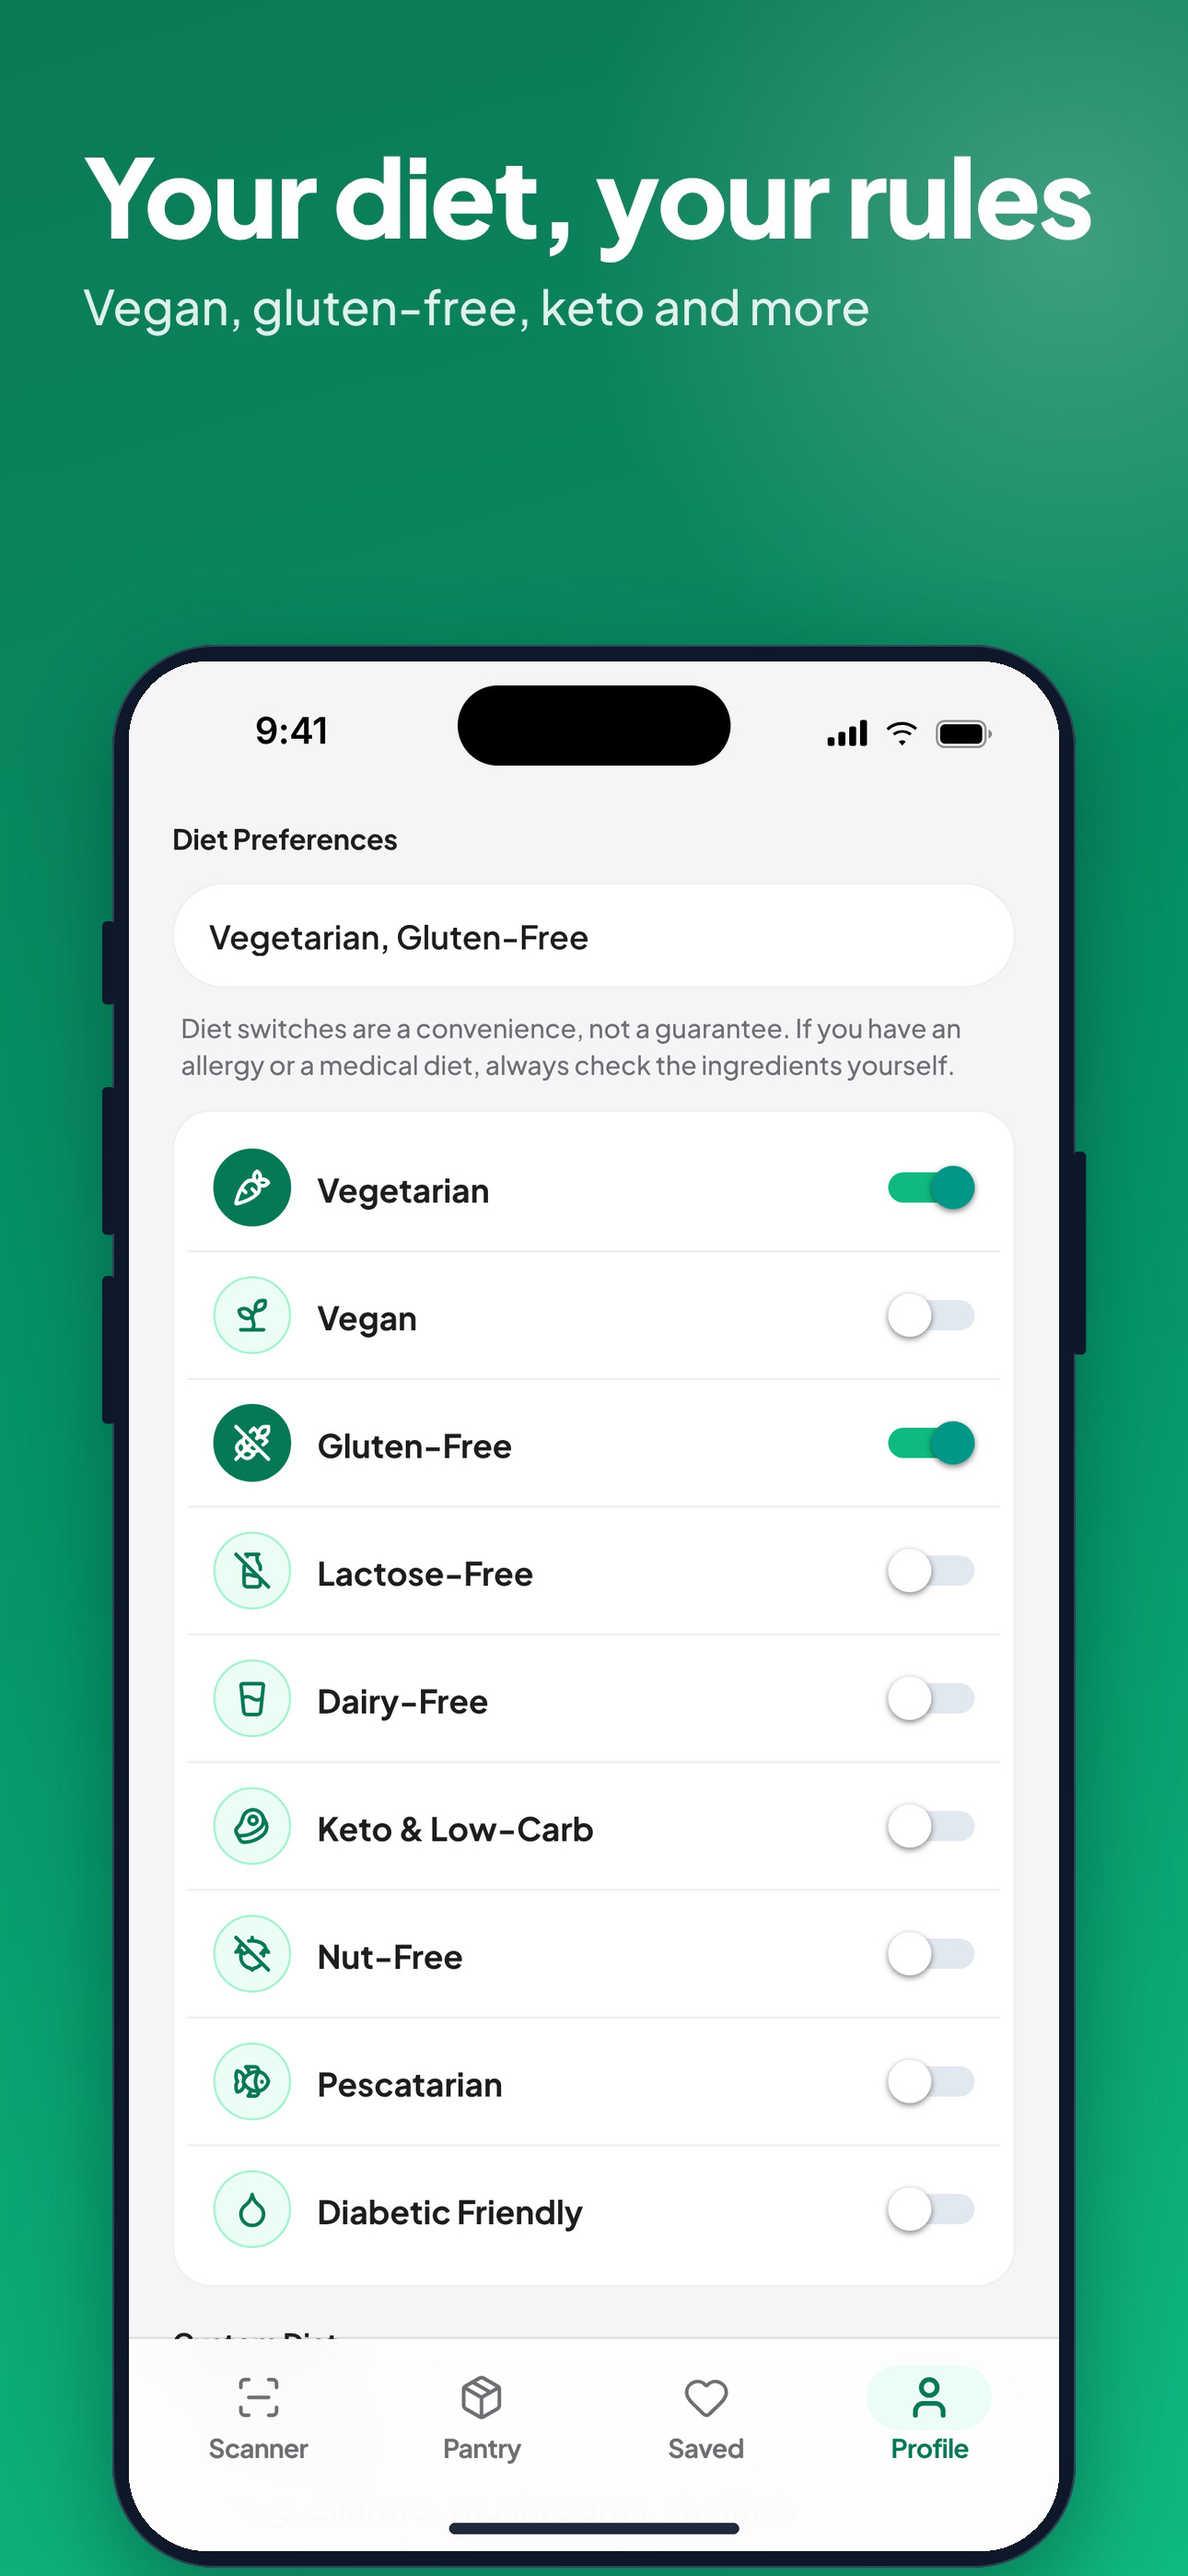
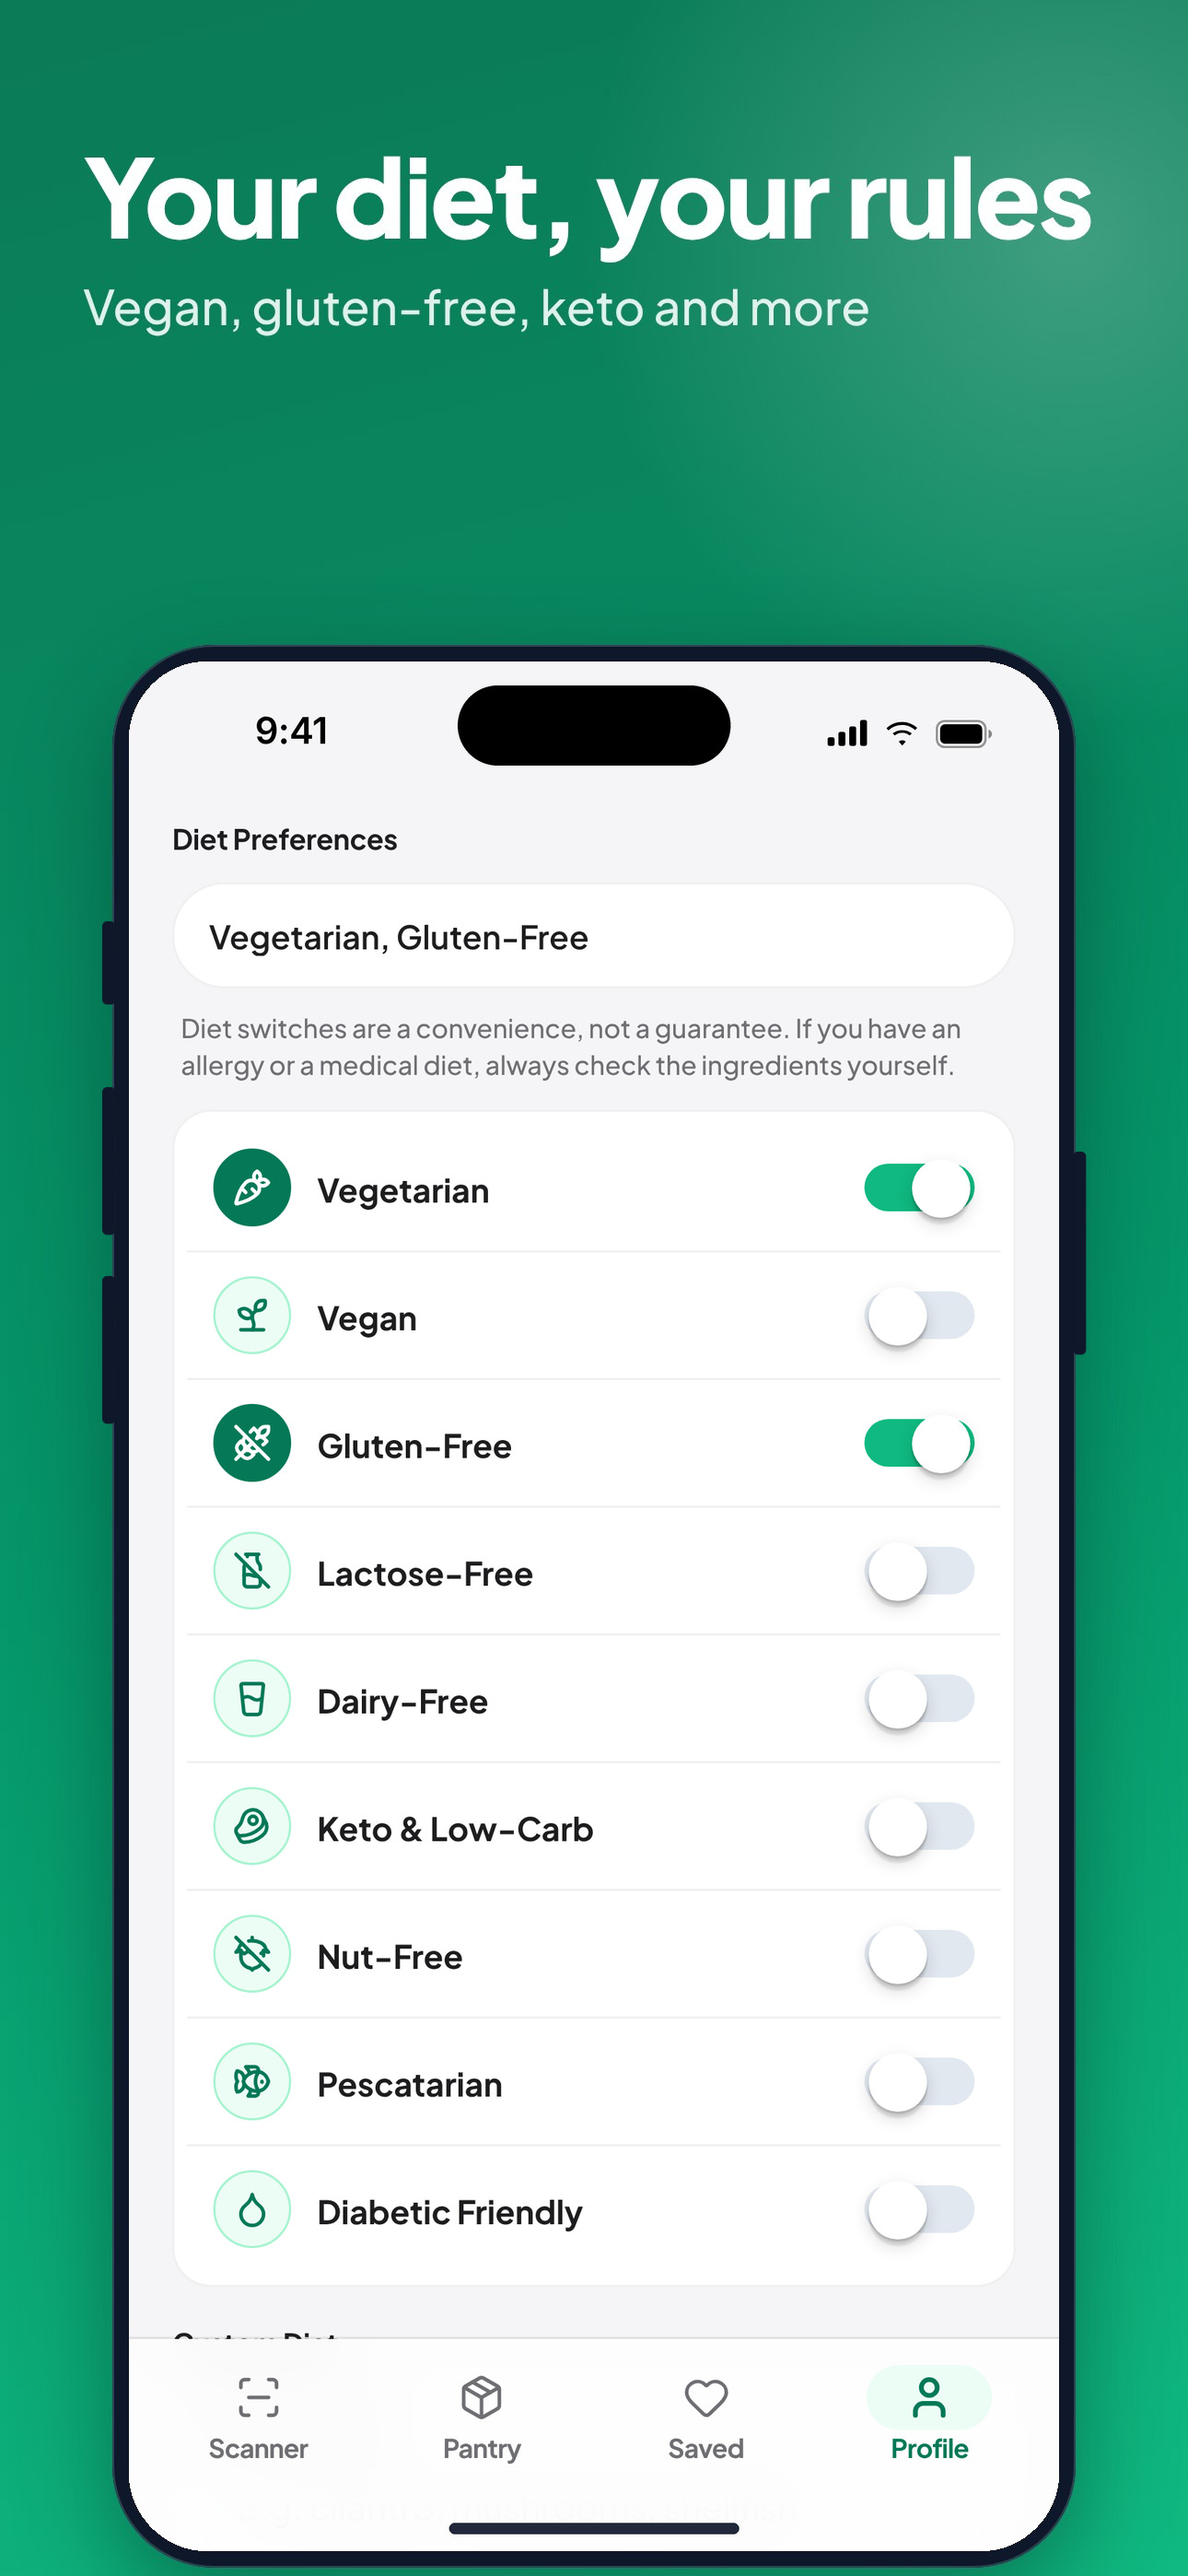
Store slide 04 (EN, PL): toggles drawn as the iOS native switch (as the app's Switch renders on an iPhone)
Claude-Session: https://claude.ai/code/session_01RtbBoobjW7cVhPz1v3aXm1

Changed region(s): [[0.7132, 0.4356, 0.8372, 0.6223], [0.7442, 0.7157, 0.8062, 0.8712], [0.7442, 0.6534, 0.8062, 0.7157]]

diff --git a/docs/store/screenshots/tools/capture.js b/docs/store/screenshots/tools/capture.js
@@ -103,6 +103,17 @@ const STATUS_BAR = `
     await page.waitForTimeout(800);
   }
   if (slide === 'pantry') { await tab('nav.pantry'); await page.waitForTimeout(1500); }
+  // The web build draws toggles as a small Material switch (40 x 20, teal knob). On an iPhone the same <Switch> is the native
+  // UISwitch (51 x 31, white knob, the app's emerald track), so draw it that way. The app itself is not changed.
+  await page.evaluate(() => {
+    for (const input of document.querySelectorAll('input[role="switch"]')) {
+      const root = input.parentElement; const [track, thumb] = root.children; const on = input.checked;
+      root.style.cssText += ';position:relative;width:51px;height:31px;';
+      track.style.borderRadius = '15.5px';
+      thumb.style.cssText = `position:absolute;top:2px;left:${on ? 22 : 2}px;width:27px;height:27px;margin:0;border-radius:50%;background:#fff;transform:none;transition:none;box-shadow:0 3px 8px rgba(0,0,0,.15),0 1px 1px rgba(0,0,0,.16),0 3px 1px rgba(0,0,0,.10);`;
+    }
+  });
+  await page.waitForTimeout(300);
   // Behind the status bar: plain screens show the app background (content scrolled under it is hidden, like a real
   // iOS nav bar); sheets show the same dim colour the app puts over the page, so nothing peeks through behind the clock.
   const modal = ['steps', 'modify', 'planner'].includes(slide);

diff --git a/docs/store/screenshots/README.md b/docs/store/screenshots/README.md
@@ -28,7 +28,8 @@ Known limits, to fix before submitting:
    430 x 873 pt @3x and draws the iOS status bar (9:41, signal, Wi-Fi, full battery) on top. `recipes` really taps
    "Generate AI Recipes", so the recipes are written by the AI through the proxy (PRO state, so the badge reads
    "7 of 8 generations left today"). `scan` shows the "just scanned" screen with the given photo and the 14 ingredients.
-   Nothing in the app is changed or faked: the screen is put in its state by writing the app's own saved data.
+   The web build's small Material toggle is drawn as the iPhone's native switch (51 x 31, white knob), because that is what the same
+   <Switch> looks like on iOS. Nothing in the app is changed or faked: the screen is put in its state by writing the app's own saved data.
    Slides: `scan` (01), `recipes` (02, real AI), `steps` (03, real AI recipe), `diets` (04), `planner` (05, real AI week plan),
    `pantry` (06), `modify` (07, real AI recipe, "Make it dairy-free" typed, not applied). All PRO except `scan`.
 3. `python tools/compose.py <old-slide.jpg> capture.png <new-slide.jpg>` swaps the screen inside the phone frame, draws the iPhone details (Dynamic Island, home indicator, side buttons) and keeps
